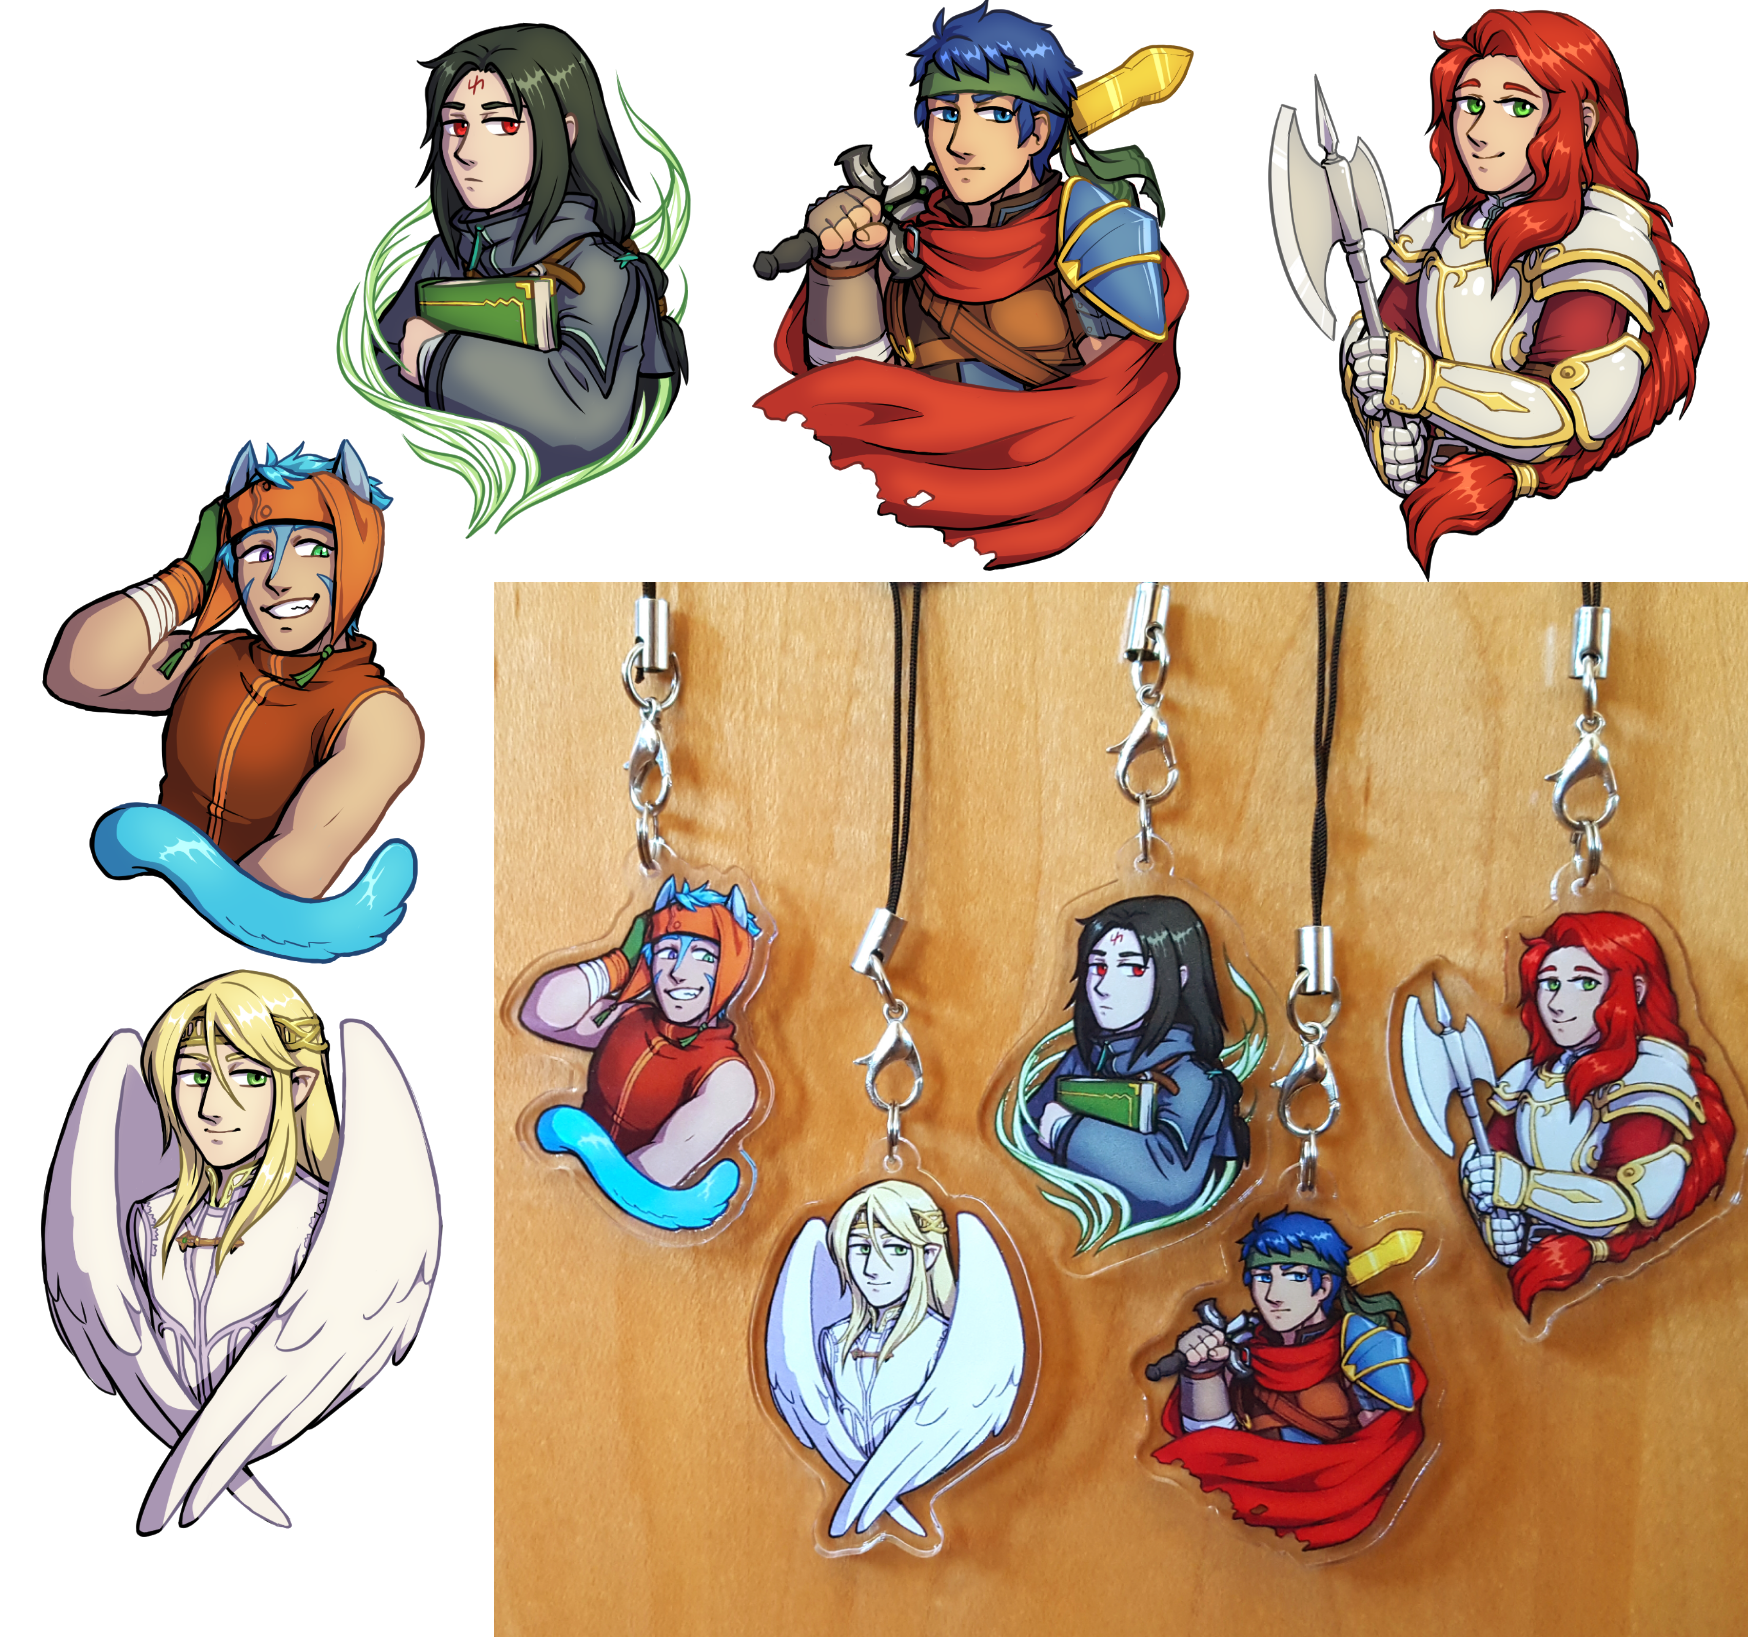
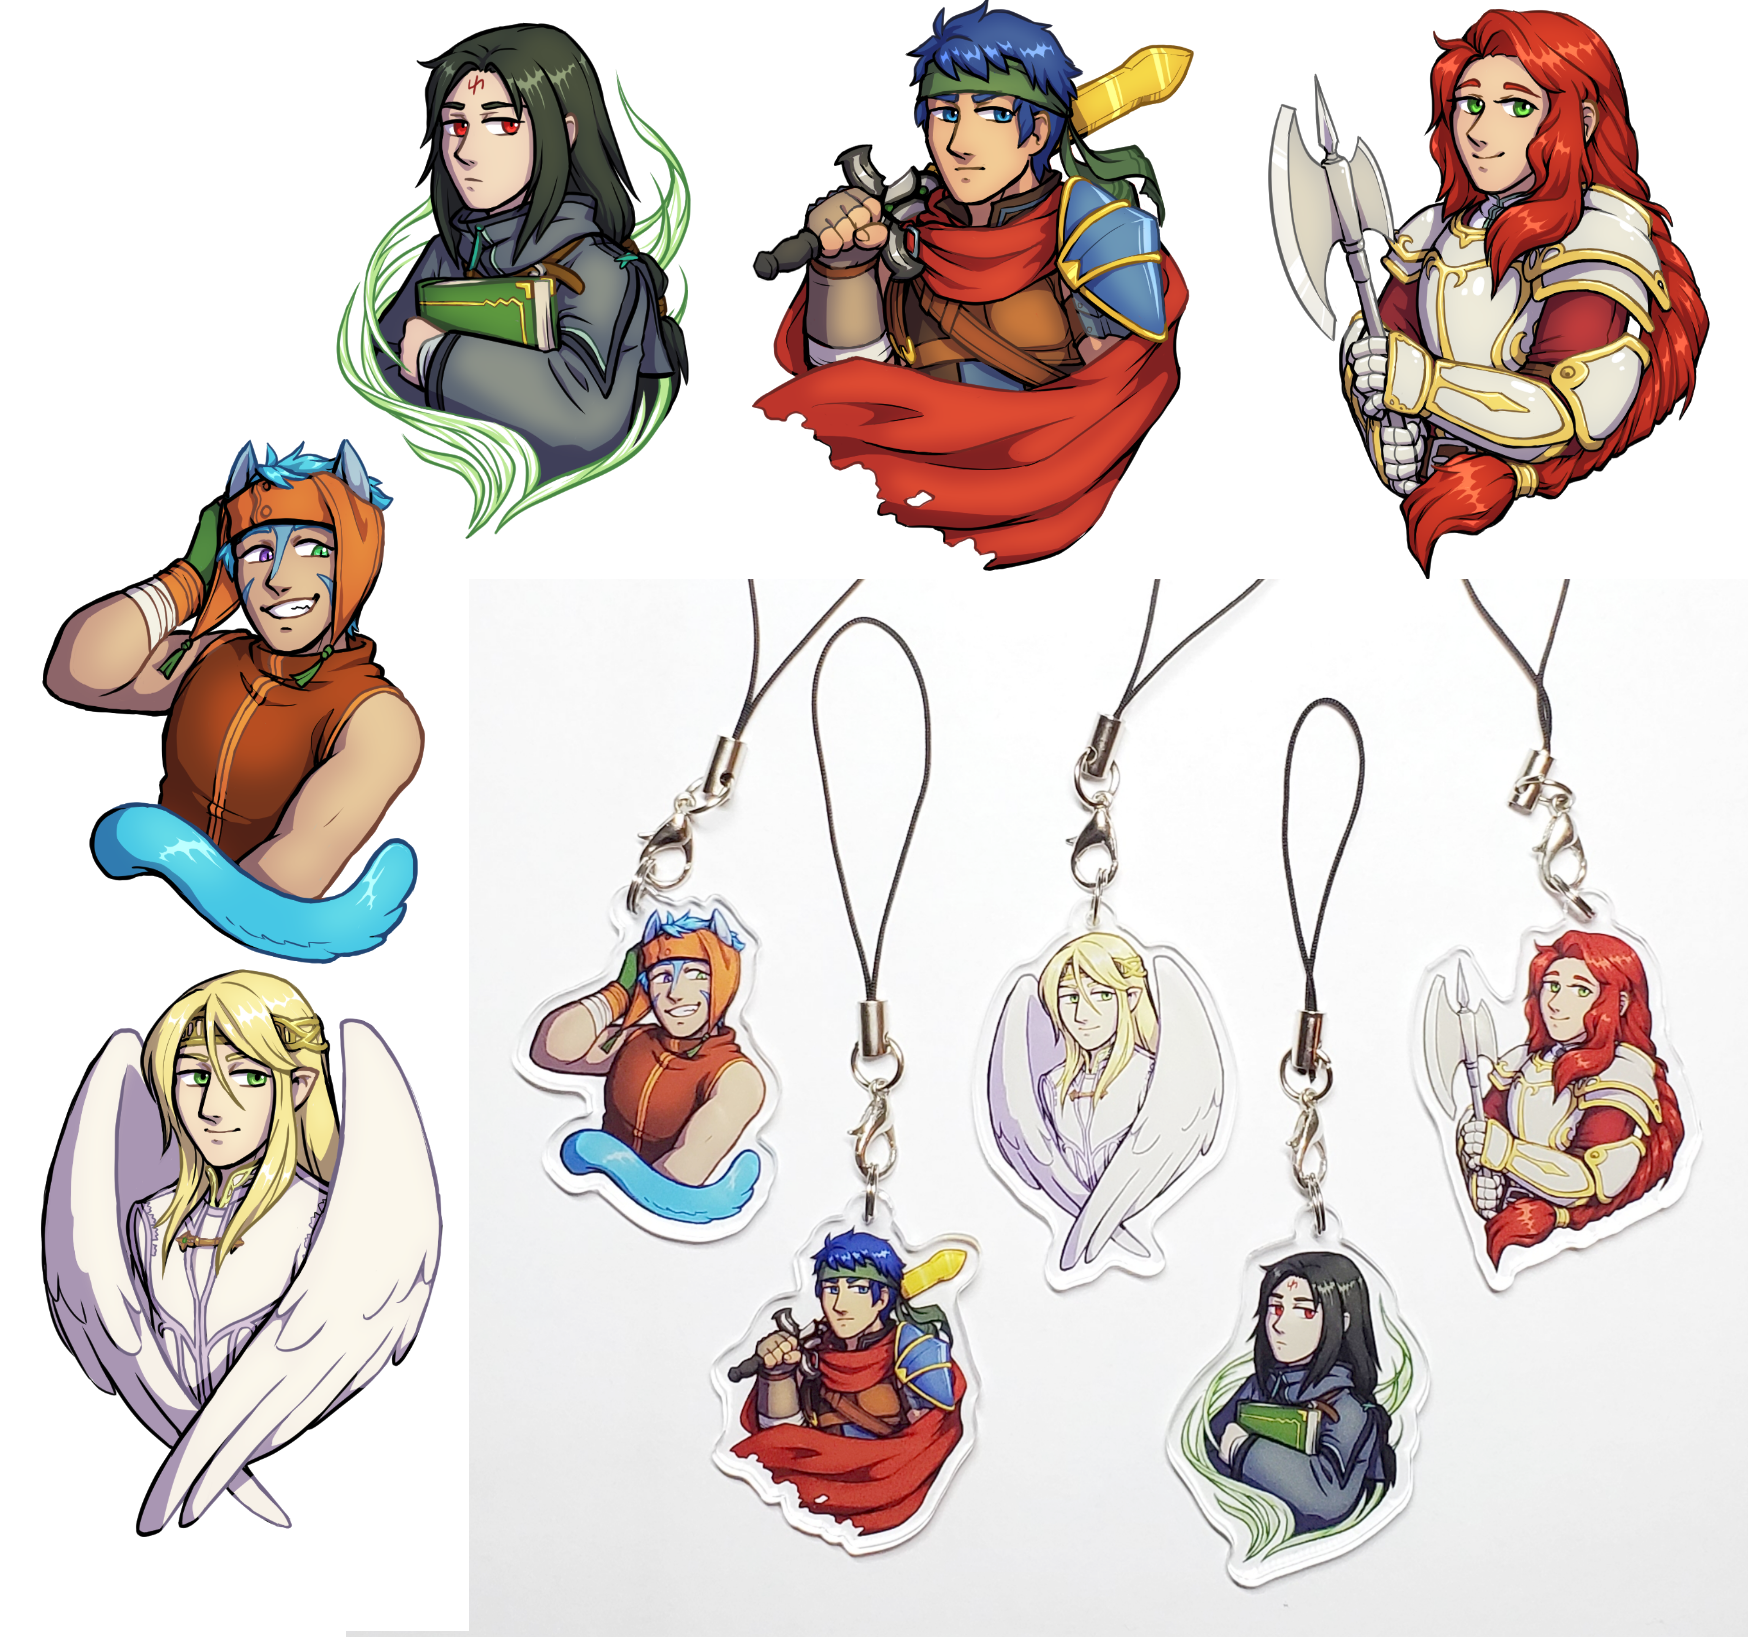
updates and fix for button 6

diff --git a/merch.html b/merch.html
@@ -13,24 +13,27 @@
 
     <div class="art-info">
         <div id="infocontent1">
-            Fire Emblem acrylic charms
+            Dragalia Lost Cupid charm
+        </div>
+
+        <div id="infocontent6">
+            Link's Awakening Bow-Wow charm
         </div>
 
         <div id="infocontent2">
-            Team Dark acrylic charms
+            Fire Emblem Dragons wooden charms
         </div>
 
         <div id="infocontent3">
-            Legend of Zelda acrylic charms
+            Fire Emblem 9/10 acrylic charms
         </div>
 
         <div id="infocontent4">
-            Fire Emblem skill pins
+            Sonic Team Dark acrylic charms
         </div>
 
         <div id="infocontent5">
-            Fan work
-            (2016)
+            Legend of Zelda acrylic charms
         </div>
     </div>
 
@@ -39,55 +42,61 @@
 
     <div class="maincontent">
         <div id="imagecontent1">
-            <img height="560" src="https://elmullin.github.io/portfolio/files/telliuscharms.png">
+            <img height="560" src="https://elmullin.github.io/portfolio/files/cupidcharm.png">
+        </div>
+
+        <div id="imagecontent6">
+            <img height="560" src="https://elmullin.github.io/portfolio/files/bowwowcharm.png">
         </div>
 
         <div id="imagecontent2">
-            <img height="560" src="https://elmullin.github.io/portfolio/files/teamdark.png">
+            <img height="560" src="https://elmullin.github.io/portfolio/files/dragoncharms.png">
         </div>
 
         <div id="imagecontent3">
-            <img width="660" src="https://elmullin.github.io/portfolio/files/botwcharms.png">
+            <img width="660" src="https://elmullin.github.io/portfolio/files/telliuscharms.png">
         </div>
 
         <div id="imagecontent4">
-            <img width="660" src="https://elmullin.github.io/portfolio/files/pins.png">
+            <img width="660" src="https://elmullin.github.io/portfolio/files/teamdark.png">
         </div>
 
-<!--    <div class="long">
         <div id="imagecontent5">
-            <img width="600" src="https://elmullin.github.io/portfolio/files/kallian5.png">
-        </div>
-        </div>  -->
+            <img width="600" src="https://elmullin.github.io/portfolio/files/botwcharms.png">
+        </div> 
     </div>
 
     <div class="img-links"><div class="img-links-wrapper">
 
         <button class="button" onclick="displayInfo1()">
-            <img height="120" src="https://elmullin.github.io/portfolio/files/telliuscharms.png">
+            <img height="120" src="https://elmullin.github.io/portfolio/files/cupidcharm.png">
+        </button>
+
+        <button class="button" onclick="displayInfo1()">
+            <img height="120" src="https://elmullin.github.io/portfolio/files/bowwowcharm.png">
         </button>
 
         <button class="button" onclick="displayInfo2()">
-            <img height="120" src="https://elmullin.github.io/portfolio/files/teamdark.png">
+            <img height="120" src="https://elmullin.github.io/portfolio/files/dragoncharms.png">
         </button>
 
         <button class="button" onclick="displayInfo3()">
-            <img width="120" src="https://elmullin.github.io/portfolio/files/botwcharms.png">
+            <img width="120" src="https://elmullin.github.io/portfolio/files/telliuscharms.png">
         </button>
 
         <button class="button" onclick="displayInfo4()">
-            <img width="120" src="https://elmullin.github.io/portfolio/files/pins.png">
+            <img width="120" src="https://elmullin.github.io/portfolio/files/teamdark.png">
         </button>
 
-<!--    <button class="button" onclick="displayInfo5()">
-            <img width="120" src="https://elmullin.github.io/portfolio/files/kallian5.png">
-        </button>   -->
+        <button class="button" onclick="displayInfo5()">
+            <img width="120" src="https://elmullin.github.io/portfolio/files/botwcharms.png">
+        </button> 
 
     </div></div>
 
     <div class="sidebar">
         <div class="sidebar-info">
-            Trikey
+            Trikey<br>
             mercinarily@gmail.com
         </div>
 

diff --git a/index.html b/index.html
@@ -31,10 +31,7 @@
         </div>
 
         <div id="infocontent3">
-            <a href="https://twitter.com/FE_Radiance">
-                Radiance Zine
-            </a>
-            (2019)
+            Radiance Zine (2019)
         </div>
             
         <div id="infocontent4">
@@ -110,7 +107,7 @@
 
     <div class="sidebar">
         <div class="sidebar-info">
-            Trikey
+            Trikey<br>
             mercinarily@gmail.com
         </div>
 

diff --git a/style2.css b/style2.css
@@ -137,7 +137,7 @@ body {
 
 #infocontent6 {
     position: relative;
-    display: none !important;
+    display: none;
 }
 
 .preview {
@@ -201,7 +201,7 @@ body {
 
 #imagecontent6 {
     position: relative;
-    display: none !important;
+    display: none;
 }
 
 .img-links {
